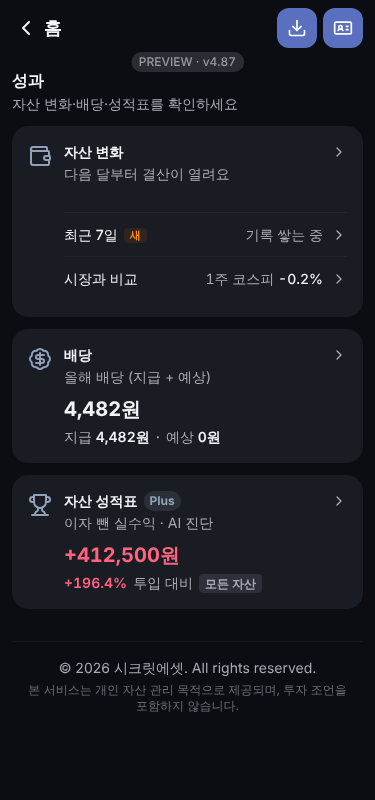
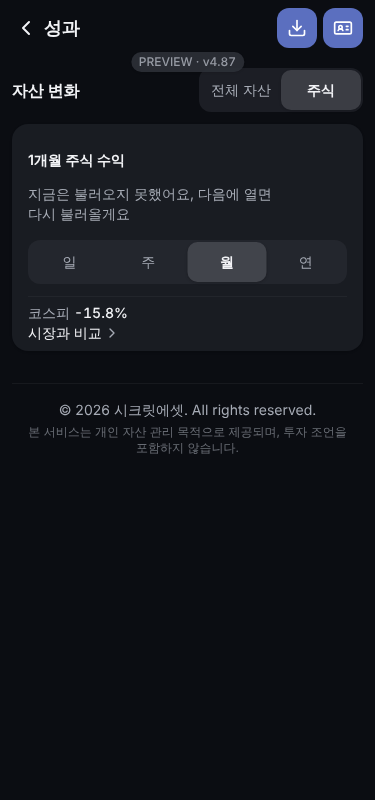
memory: 4.87 qa PASS(62e193b)

diff --git a/issues/4.87-170-home-tip-holdings/4.87-qa-report.md b/issues/4.87-170-home-tip-holdings/4.87-qa-report.md
@@ -1,0 +1,66 @@
+# #170 [4.87] QA 보고서
+
+대상: PR #171, 커밋 62e193b, preview https://secretasset-git-issue-487-bbplayworlds-projects.vercel.app (v4.87 표시 확인). 날짜 2026-11-12. 화면 확인은 Playwright(다크 기본, 라이트는 theme_mode 쿠키로 강제해 html 클래스 실측), gtag 스텁, localStorage 시드.
+
+## 최종 판정: PASS
+
+## 1. 자동 검사
+| 항목 | 결과 |
+|---|---|
+| `npx tsc --noEmit` | 통과 (0) |
+| `npm run lint` | 오류 0 (경고 58, 기존 테스트 파일 경고 — diff 신규 아님) |
+| `npx vitest run` | 158 파일·2178 테스트 통과 |
+| `npm run build` | 통과 |
+
+## 2. spec 수용 기준 (9절)
+| # | 기준 | 판정 | 근거 |
+|---|---|---|---|
+| 1 | F1~F7 첫 기능 팁·순서 = 4절 | PASS | preview 실제 클릭 반복. F1 세금 일정→현금→자산 변화→주간→성적표→박스 없음. F2 세금 일정→주식→X-Ray→자산 변화→주간→시장과 비교→배당→성적표→인증카드→포트폴리오→투자 유형→없음. F3 …→암호화폐→…성적표. F4 …→대출→…성적표. F5 연말 절세→주식→X-Ray→…→투자 유형→세금 일정(tax 방문 1이라 뒤)→없음. F6 연말 절세→주식→X-Ray→부동산→암호화폐→현금→대출→자산 변화→… (main과 동일 순). F7 상폐 유지(ZZZZ9): 세금 일정이 첫 팁(아래 F7 보충). 수량 0 경계: 세금 일정→자산 변화→주간→성적표→없음. 상위 층은 시드로 끔(세금 알림 월 dismiss·백업 기록·읽음 기록 최신) |
+| 2 | 도착 화면 미보유 빈 상태 0 | PASS | 팁마다 캡처 `qa-F{n}-NN-*.png`. 현금·암호화폐·대출·주식·X-Ray·시장과 비교(삼성전자 +3.2%)·배당(올해 예상 4,482원)·성적표·인증카드 다이얼로그 모두 해당 자산 요소가 첫 화면에 보임(C87). F1·F3·F4 자산 변화·주간 원인은 스냅샷 이력 0인 시드의 "기록이 쌓이면 보여요" 문구(보유 무관, 기존 동작) |
+| 3 | 결산 창·새 소식 우선, pickHomeTip diff 0 | PASS | `git diff main -- home-tip.ts` = 호출 인자 1줄. 시계 2026-11-28 + 전월 스냅샷: F1·F2·F5·F6 모두 settlement. 안 읽은 새 소식 시드: F1·F2·F5·F6 모두 `새 소식 12개`, 시트 `새` 배지 12개(C84). 창 밖 + 스냅샷 있음 → 기능 팁 |
+| 4 | 후보 0 → 박스 없음 | PASS | 각 시나리오 마지막 로드 `[data-testid=home-tip]` 0, 여백 이중 간격 없음(`qa-F1-06-nobox.png`) |
+| 5 | GA | PASS | 스텁 관측: view=`홈 팁`, close=`홈 팁`, click=`홈 팁·누름`, 파라미터 키 page_title·page_location만(불변). `ga.test.ts` 3행 추가·기존 행 유지. 진입 이벤트 `성과·자산 변화·최근 7일` 유지 |
+| 6 | 수익 칸 전부 실패 | PASS | 429·503 모의: `change-hero-loading` 0, 새 문장 표시(320·375·1280·라이트). `X-KIS-Unavailable`: 기존 `점검 중 · 외부 증권 API 점검으로…` 유지. 4종목 중 일부 배치만 429: 부분 결과 표시·실패 문구 없음. 정상: main과 같은 값. 실패→재조회: 기간 전환 후 정상 응답이면 실패 문구 사라지고 값 표시. 빠른 기간 전환(abort, 응답 지연): 실패 문구·스켈레톤 없이 마지막 기간 값 표시 |
+| 7 | 320·375 배당 '분기' 배지 | PASS | 320: 티커 아래 둘째 줄 왼쪽, 형제 요소 겹침 0(좌표 계산), 가로 넘침 0. 375·1280 겹침 0. 라이트 320도 동일(`qa-dividend-*`) |
+| 8 | 기존 테스트 전 자산군 픽스처 | PASS | vitest 전체 통과 |
+
+F7 보충: 시드 티커를 실제 상장 종목(AAPL)으로 쓰면 앱의 시세 갱신이 `inactiveStatus`를 해제해(기존 동작, diff 밖) 연말 절세가 첫 팁으로 나온다. 시세가 없는 티커(ZZZZ9)로 상폐 상태를 유지한 화면에서는 첫 팁이 **세금 일정 관리**로 spec 4절과 일치(`qa-F7-delisted-fixed-375.png`, 저장값 `inactiveStatus: delisted`). 위 F7 순서 열은 AAPL 시드 결과라 spec 표 검증은 이 보충 실행 + `home-tip-holdings.test.ts` F7 단언으로 한다.
+
+## 3. direction·challenge·DECISIONS 일치
+- 필터는 기능 팁 층만, 카탈로그·팁 문구·우선순위·새 소식 `바로 가기`(runFeatureEntry) diff 0. 범위 밖 컷 2건(앱 가이드 이름·Popover) 미구현은 spec 컷 허용. 일치.
+
+## 4. 원칙
+| 항목 | 판정 |
+|---|---|
+| 네트워크에 사용자 자산 값 | PASS — 신규 fetch 0. 관측한 요청은 시세 티커·환율·코인 심볼뿐, 보유수량·잔액 값 0, 동기화 요청 0 |
+| 투자 조언 문구 | PASS — 신규 문구 `지금은 불러오지 못했어요, 다음에 열면 다시 불러올게요`(원인 단정·조언·금액 없음) |
+| 저장소 스키마 변경 | 해당 없음 — diff에 STORAGE_KEYS·setItem 신규 0, featureUsage 모양 불변 |
+| 공유 이미지 금액 노출 | 해당 없음 — 공유 이미지 코드 diff 0 |
+| preview 동기화 쓰기 | PASS — sync 요청 0건 |
+
+## 5. 회귀 (F-* 관련: 홈 팁, GA, 수익 칸·점검, 배당)
+점검 문구·부분 성공·정상·abort·재조회 경로 위 6항 확인. 홈 팁 박스 마크업 diff 0.
+
+## 5-1. CHECKLIST 전 항목 (C1~C89)
+- FAIL 0. 해당 있는 항목: C2(컨트롤 변화 없음 PASS), C3(모션 변경 없음), C9(수동 확인 전제 없음 PASS), C10 PASS, C16 PASS(diff의 feature-usage·home-tip·profit-chart에 save/notify/setAssetData 0), C20 PASS(옛 구성 포함 수량 0 경계 화면 확인), C25 PASS(새 문구 320·375 어절 중간 끊김 없음, `text-balance break-keep`), C35 PASS(배당 행 높이 증가는 320 의도된 둘째 줄뿐), C38·C82·C84 PASS(결산 창·새 소식 우선 불변, PR 줄 `새 소식: 해당 없음(…)` 있음, 개수 12=12), C41 해당 없음(4.86 선행 머지 대기, 머지 시 main merge 필요 — 아래 한계), C46 해당 없음, C70 PASS(기존 점검 상수·문구 불변, 점검 우선), C76·C83 PASS(기본 경로 F2·실제 recordVisit·dismissTip 호출 테스트), C81 PASS(라이트 캡처 html class 실측 light), C85 PASS(다크 기준 캡처), C87 PASS(팁마다 도착 화면 요소 확인), C88 해당 없음, C89 PASS(전부 실패 시 스켈레톤 0, 재진입 시 회복, onFailed 6건 테스트).
+- 나머지 C 항목(데이터·원인 분해·마케팅·공유·표 레이아웃 등)은 diff가 닿지 않아 해당 없음.
+
+## 5-2. 데이터 안전 점검
+| 점검 | 결과 |
+|---|---|
+| 변경 경로 | `feature-usage.ts`(읽기 전용 필터), `home-tip.ts` 1줄, `ga.ts` page_title, `profit-utils.ts`·`profit-chart.tsx`(콜백·화면 상태), 배당 클래스. 저장·동기화·스냅샷·거래·공유 토큰·백업·성적표 계산 diff 0 |
+| 옛 데이터 읽기 / 새 데이터를 이전 버전이 읽기 | PASS — featureUsage 모양 불변. 필터로 걸러진 항목은 dismiss 미기록(실측: `dismissedTipIds:["tax-schedule"]`만, 걸러진 tax-simulator·crypto 없음) |
+| 구·신 기기 혼재 동기화 | 해당 없음 — featureUsage는 동기화 payload 미포함(기존), 쓰기 변경 0 |
+| 공유 토큰·백업 왕복 | 해당 없음 — diff 경로 0 |
+| 집계·보존 범위 변경 | 해당 없음 |
+| 롤백 | PASS — 이전 버전은 필터 없이 같은 dismiss 목록으로 추천, 손상 없음 |
+| 자산 생기면 재등장 | PASS — 국내주식(F2) 세금 일정 dismiss 후 해외주식 추가 → 새 세션에서 연말 절세 시뮬레이션 등장 |
+
+## 결함 확인
+- 결함 의심 없음. F7 화면 차이는 시드 종목이 실제 상장이라 시세 갱신이 상폐 상태를 해제한 픽스처 아티팩트(재현 안 됨 → 결함 아님).
+
+## 한계
+- 4.86 머지 후 main merge 필요(C41): 머지 전 `git diff <qa 커밋> <새 head>` = 선행분 확인 필요.
+- `ProfitCard` 카드형 실패 박스(`profit-fetch-failed`)는 현재 앱에서 `controlledPeriod` 없이 쓰이는 사용처가 없어 화면으로 도달 불가(코드·테스트로만 확인).
+- 일간 조회만 전부 실패하고 기간 조회는 성공해도 히어로가 실패 문구로 대체된다(main은 스켈레톤 영구). 점검 박스와 같은 규약, spec 7절 문구와 일치.
+- 일부 구성에서 배당 없음·비상장 시장과 비교는 spec 8절 수용 한계.
